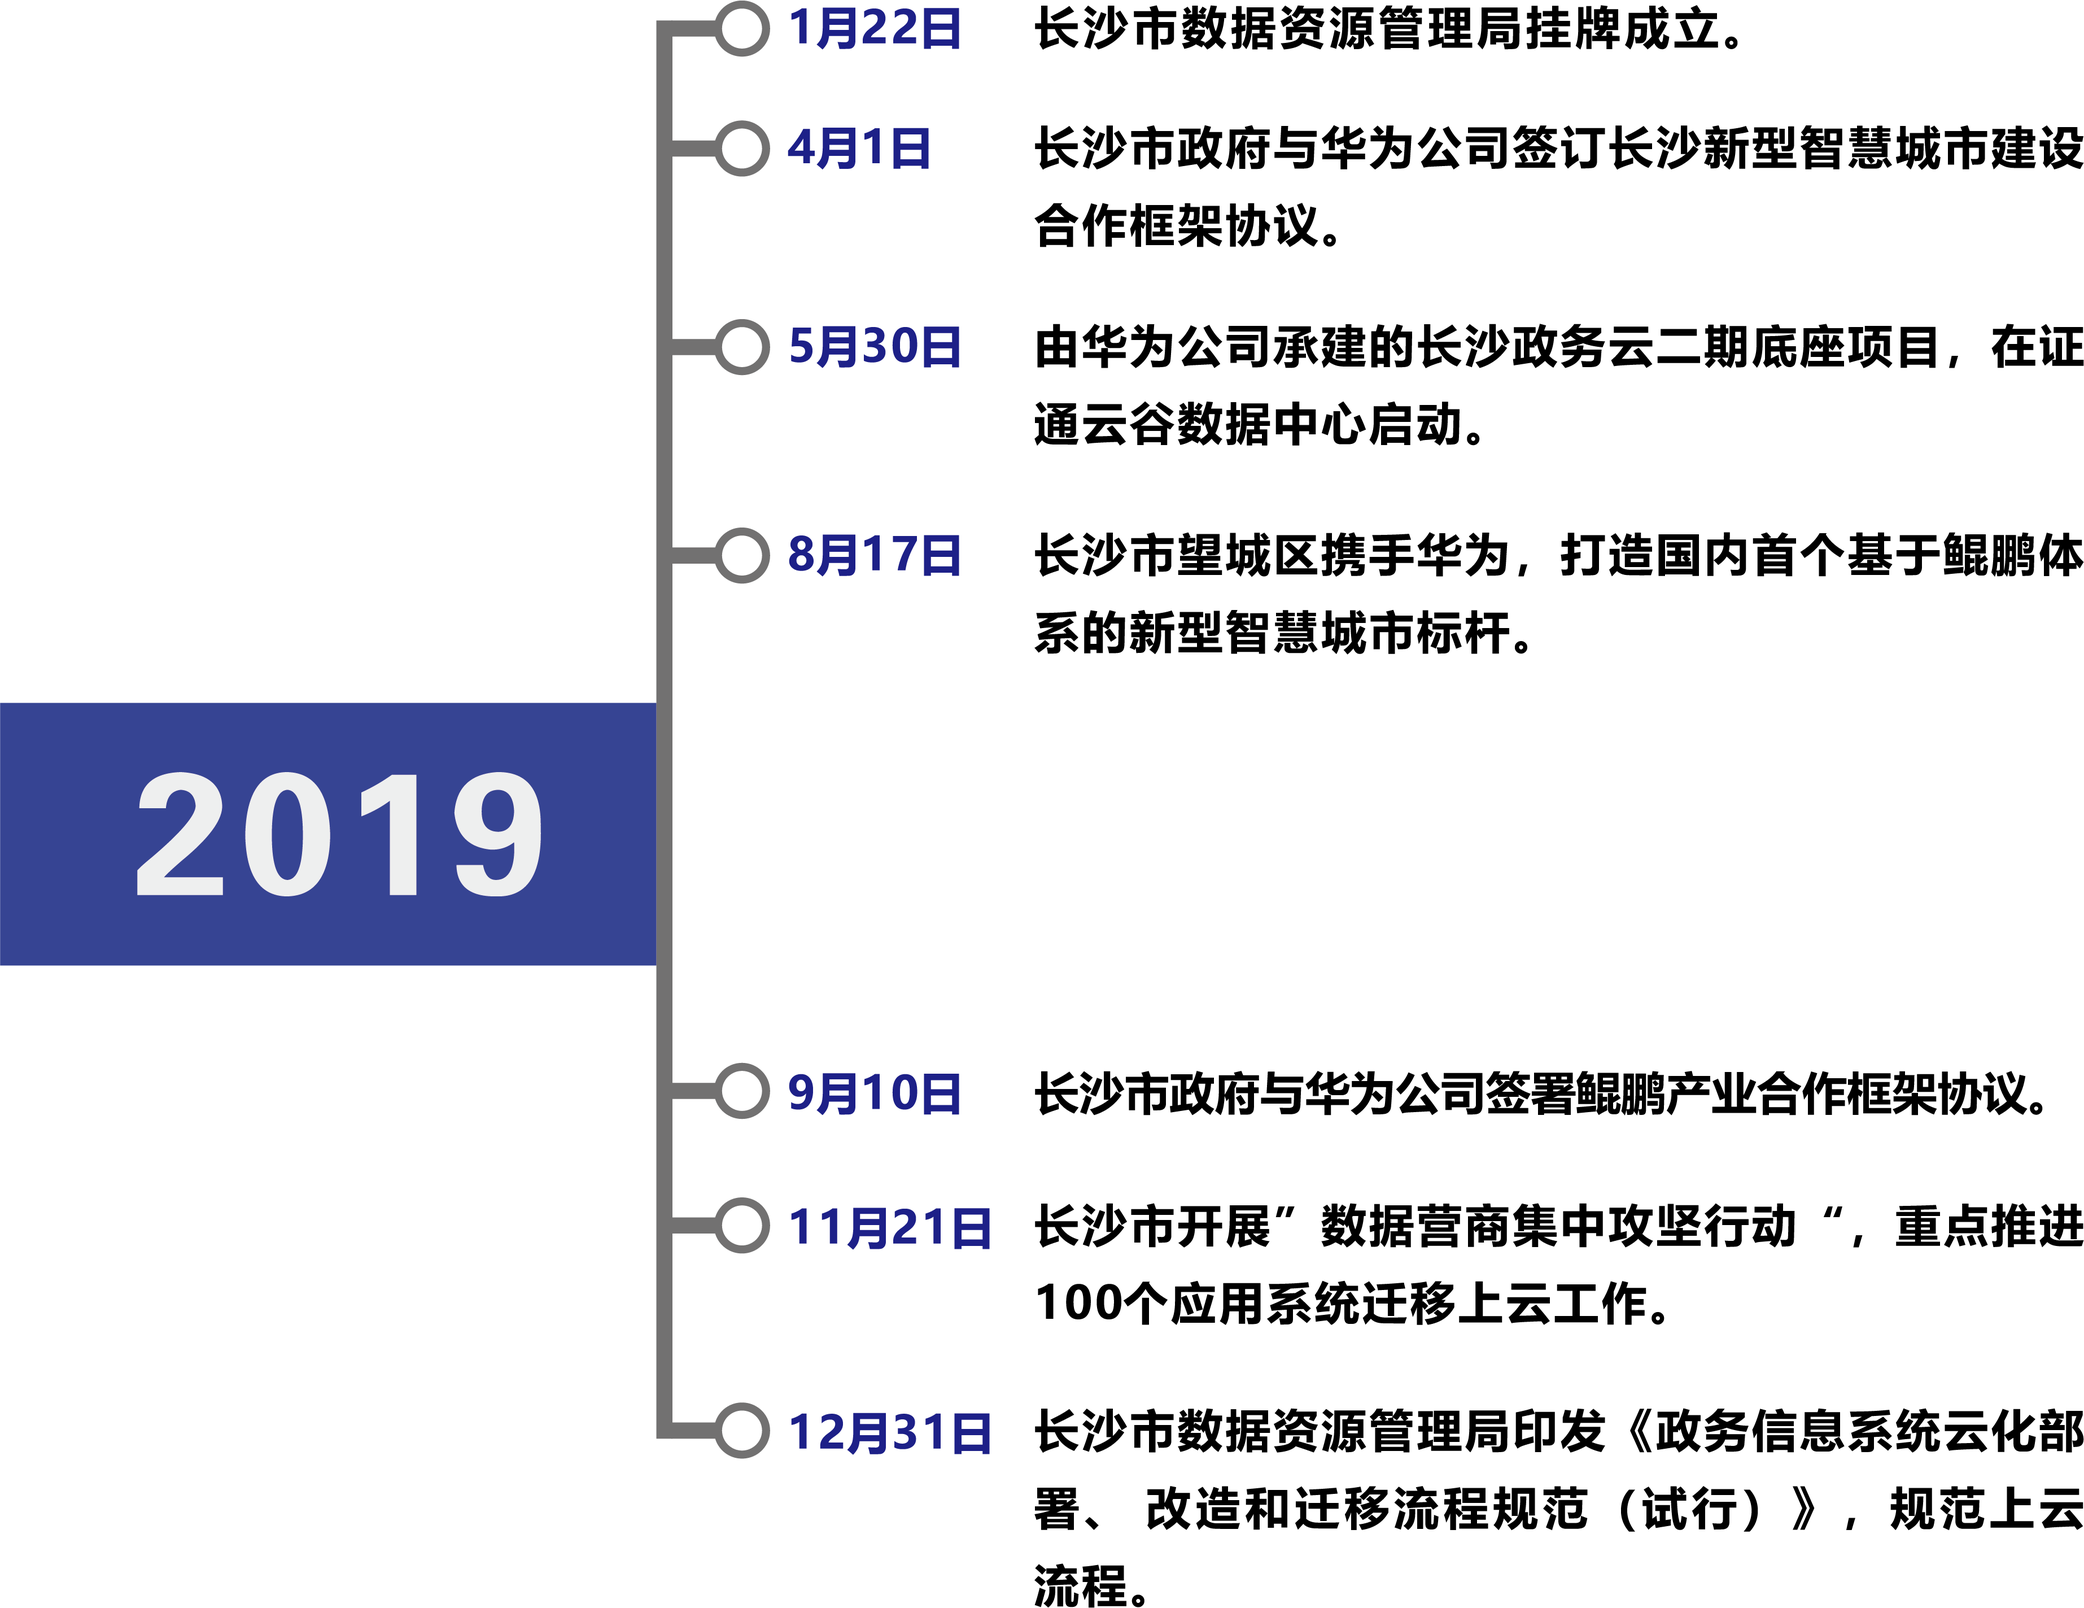
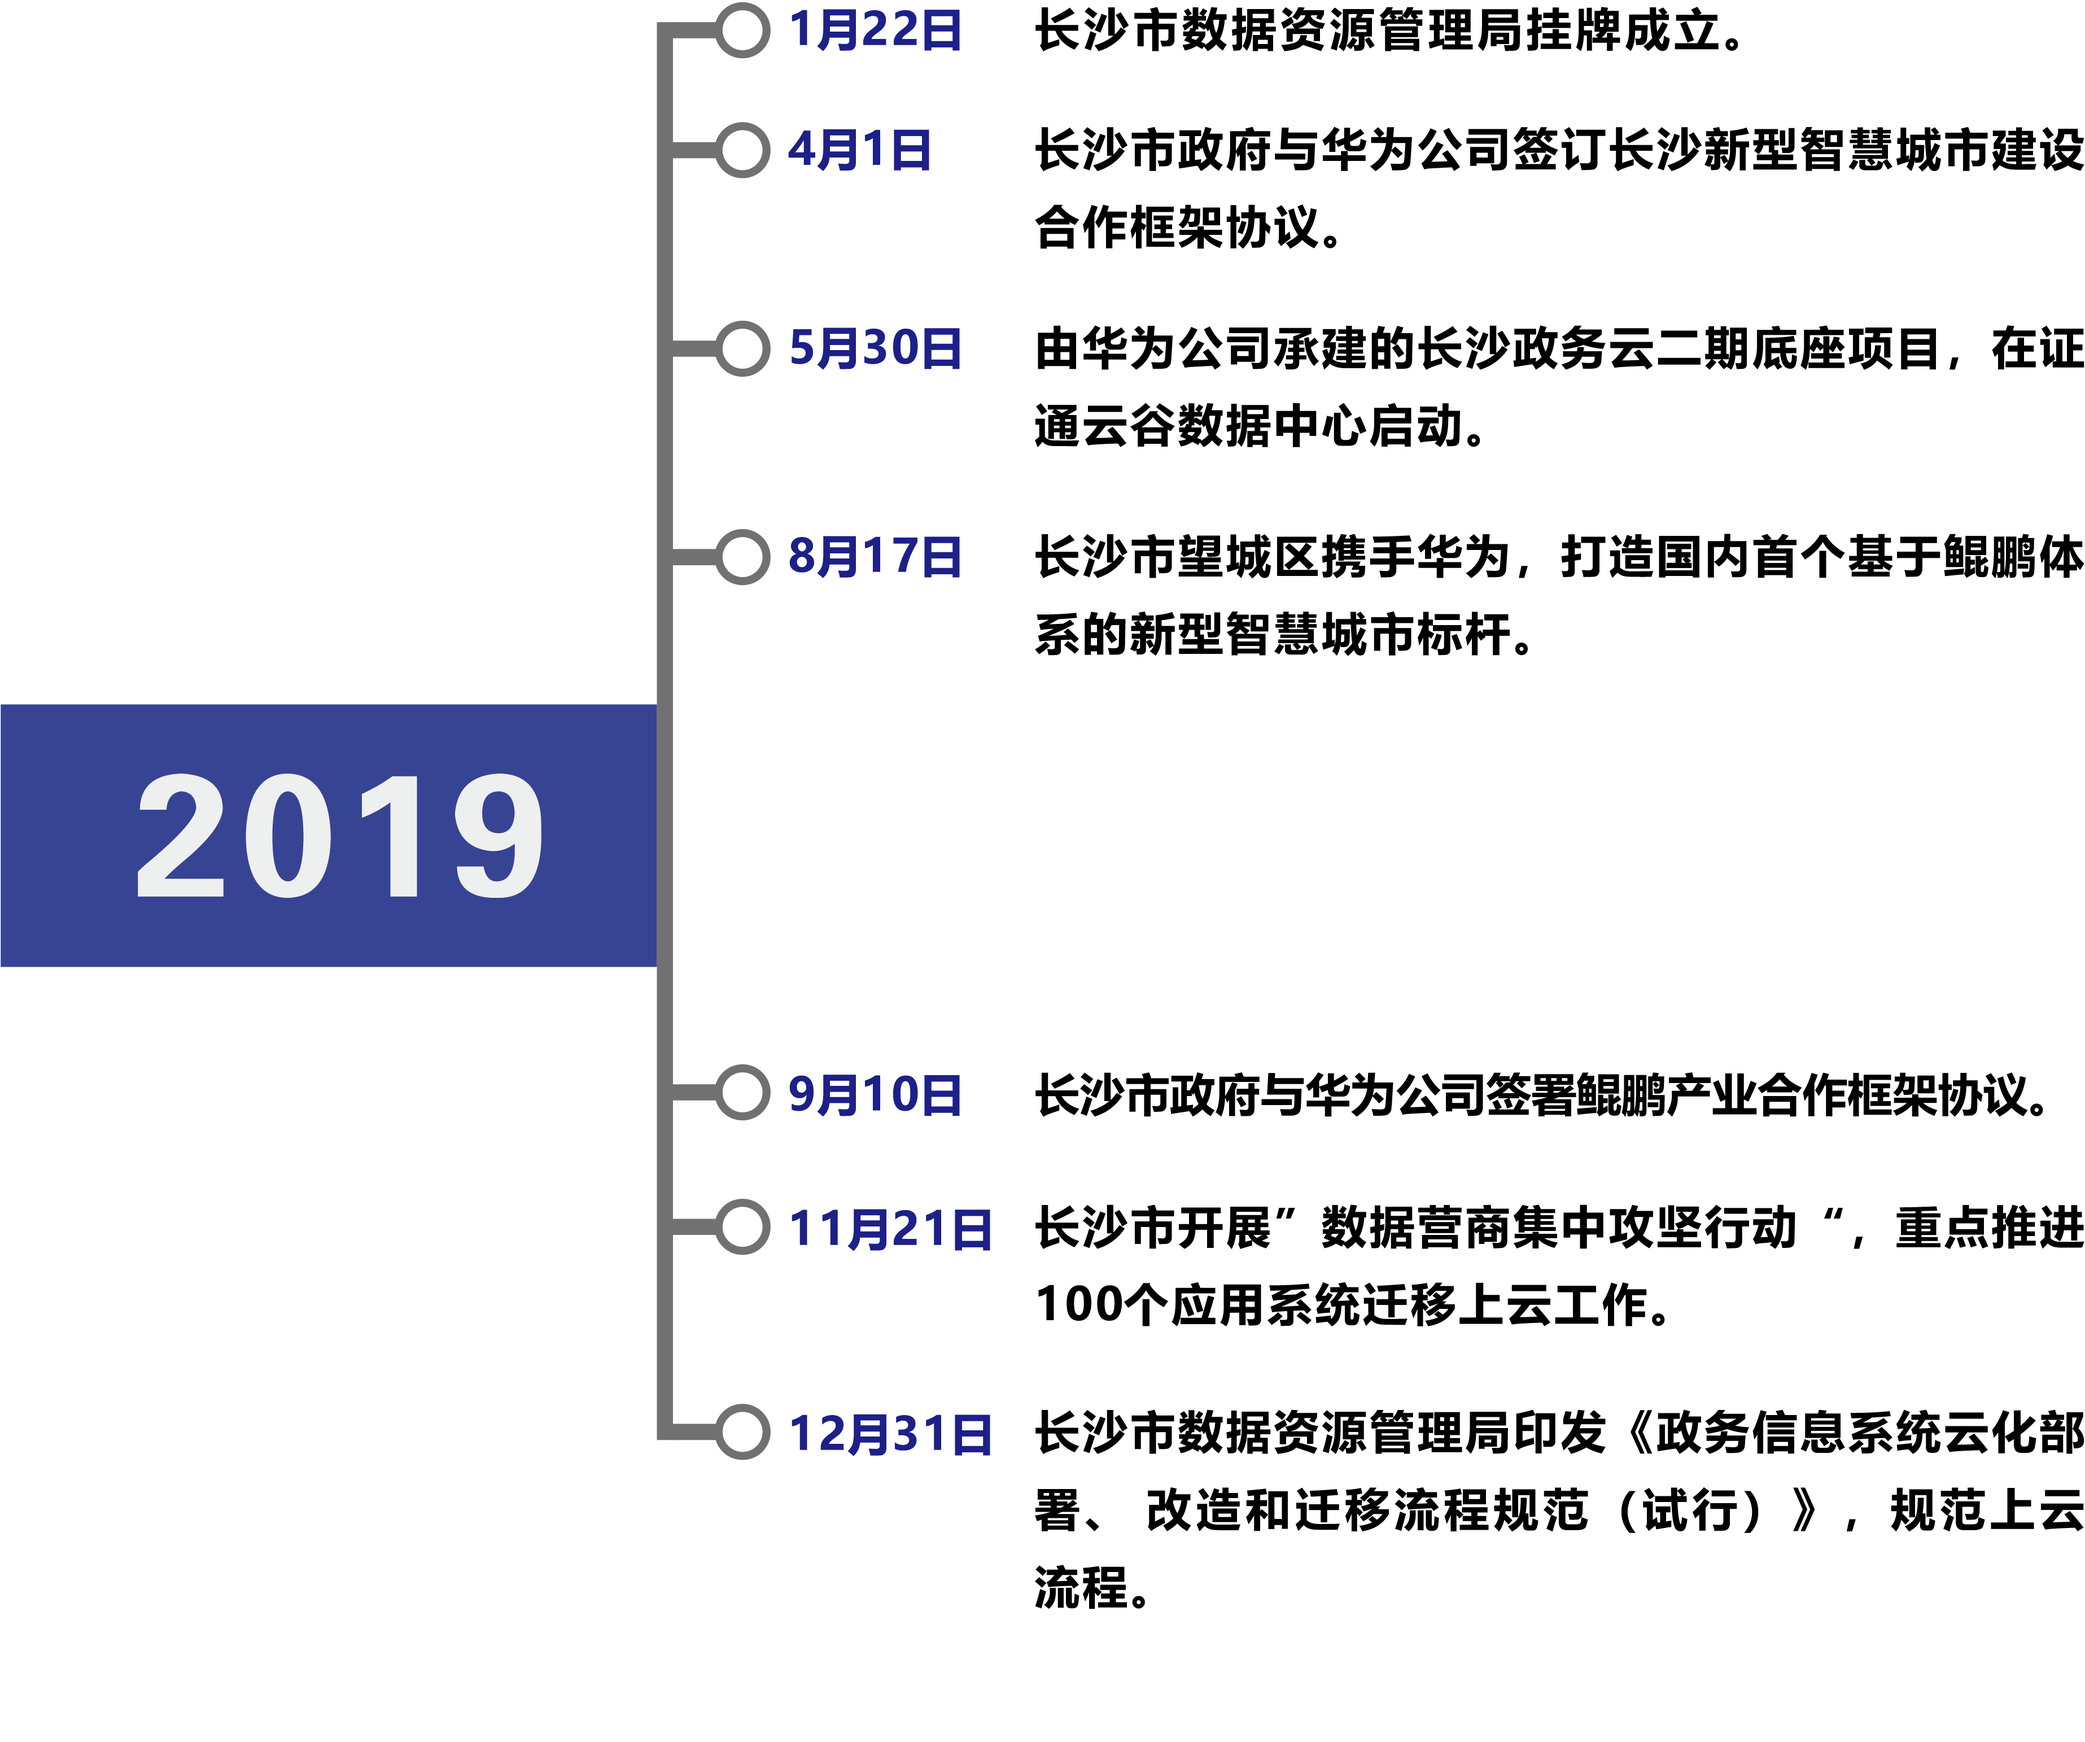
..

diff --git a/src/page/slideScreen/index.jsx b/src/page/slideScreen/index.jsx
@@ -16,11 +16,11 @@ import img5 from '../../assets/slideScreen/slide/5.png';
 //总长度
 const totalWidth=12000;
 //起始左边距离
-const startMargin=1200;
+const startMargin=1230;
 //每次移动距离
 const moveDistance = 2000;
 //每个发展历程之间的间距
-const lineItemMargin=200;
+const lineItemMargin=400;
 //每次移动的时间
 const moveTime=3000
 
@@ -45,11 +45,17 @@ class SlideScreen extends Component {
     
     if(lock)return;
     if(direction==='left'){
-        if(index>1){
+        if(index!==0){
             this.setState({
                 left: left+moveDis,
                 index:index-1,
                 lock:true
+            })
+        }
+        if(index===1){
+            this.setState({
+                lock:false,
+                show:false
             })
         }
     }else{
@@ -62,10 +68,12 @@ class SlideScreen extends Component {
         }
     }
     setTimeout(()=>{
-        this.setState({
-            show:true,
-        })  
-    },moveTime)
+        if(!(direction === 'left' && index===1)){
+            this.setState({
+                show:true,
+            })  
+        }
+    },moveTime+500)
 
    }
     render() {

diff --git a/src/page/slideScreen/index.scss b/src/page/slideScreen/index.scss
@@ -20,11 +20,12 @@
             top: 25%;
             left: 0;
             width: 100%;
-            height: 50%;
+            height: 70%;
 
             img {
                 position: relative;
                 height: 100%;
+                margin-bottom: -176px;
             }
 
             // .line-2 {
@@ -44,7 +45,7 @@
                 height: 40px;
                 background: #364493;
                 left: 0;
-                bottom: 27%;
+                bottom: 50%;
                 width: 100%;
             }
         }

diff --git a/src/page/slideScreen/components/commonPart/index.jsx b/src/page/slideScreen/components/commonPart/index.jsx
@@ -13,7 +13,7 @@ const CommonPart = (props)=>{
                 setFlag(false)
                 setTimeout(()=>{
                     onClose()
-                },1000)
+                },500)
              }}
             >
 
